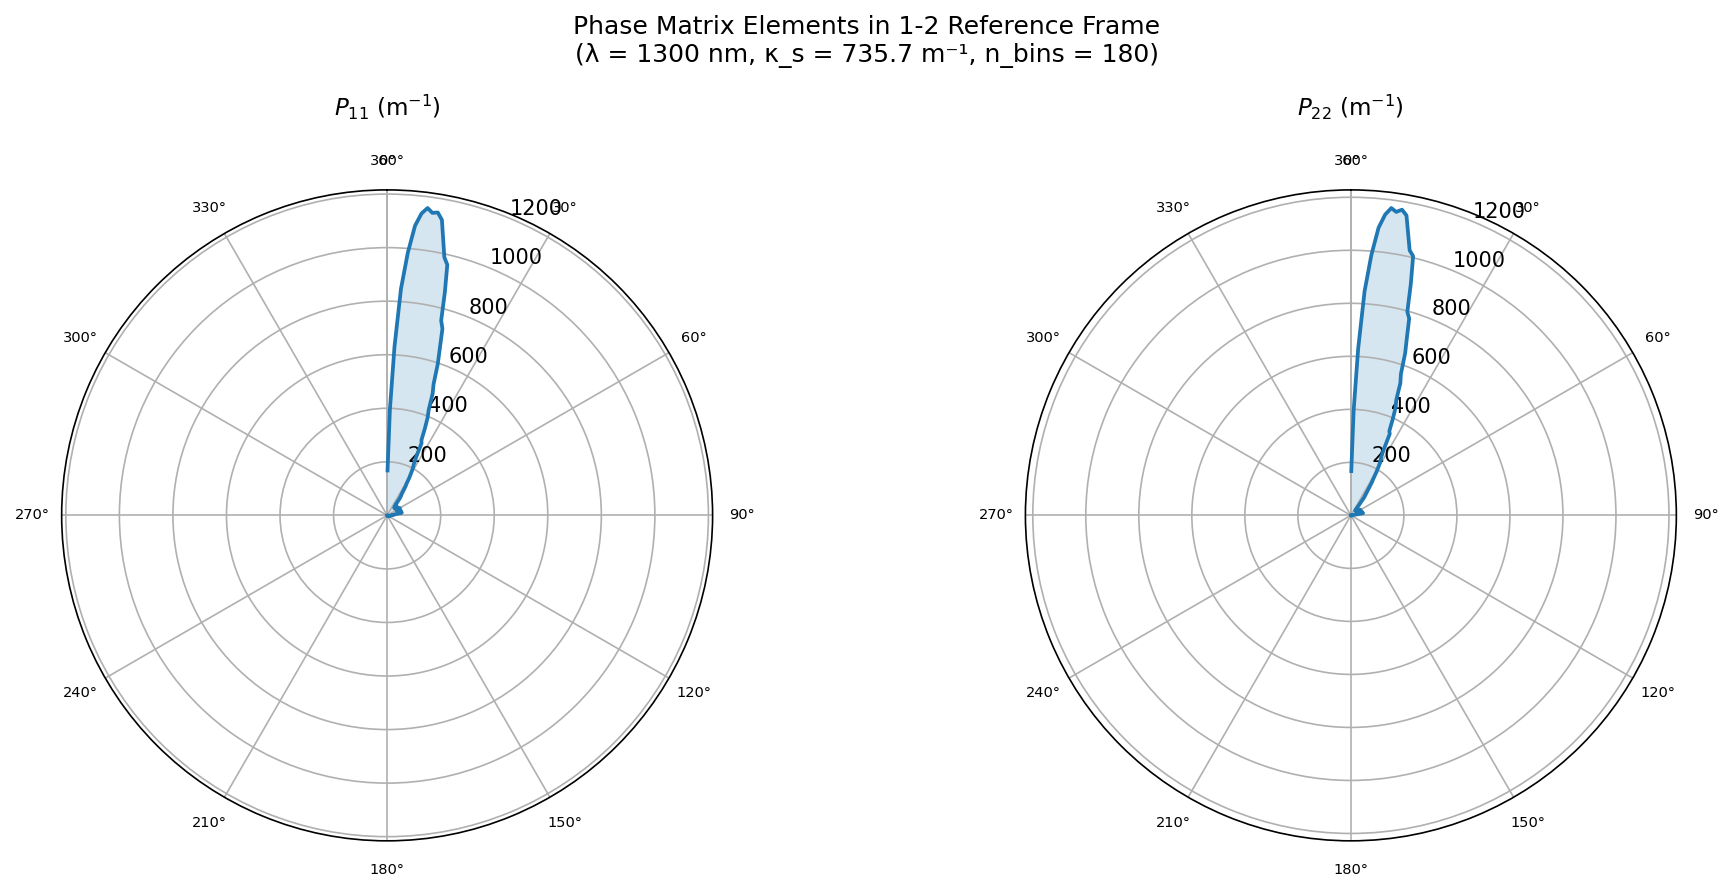
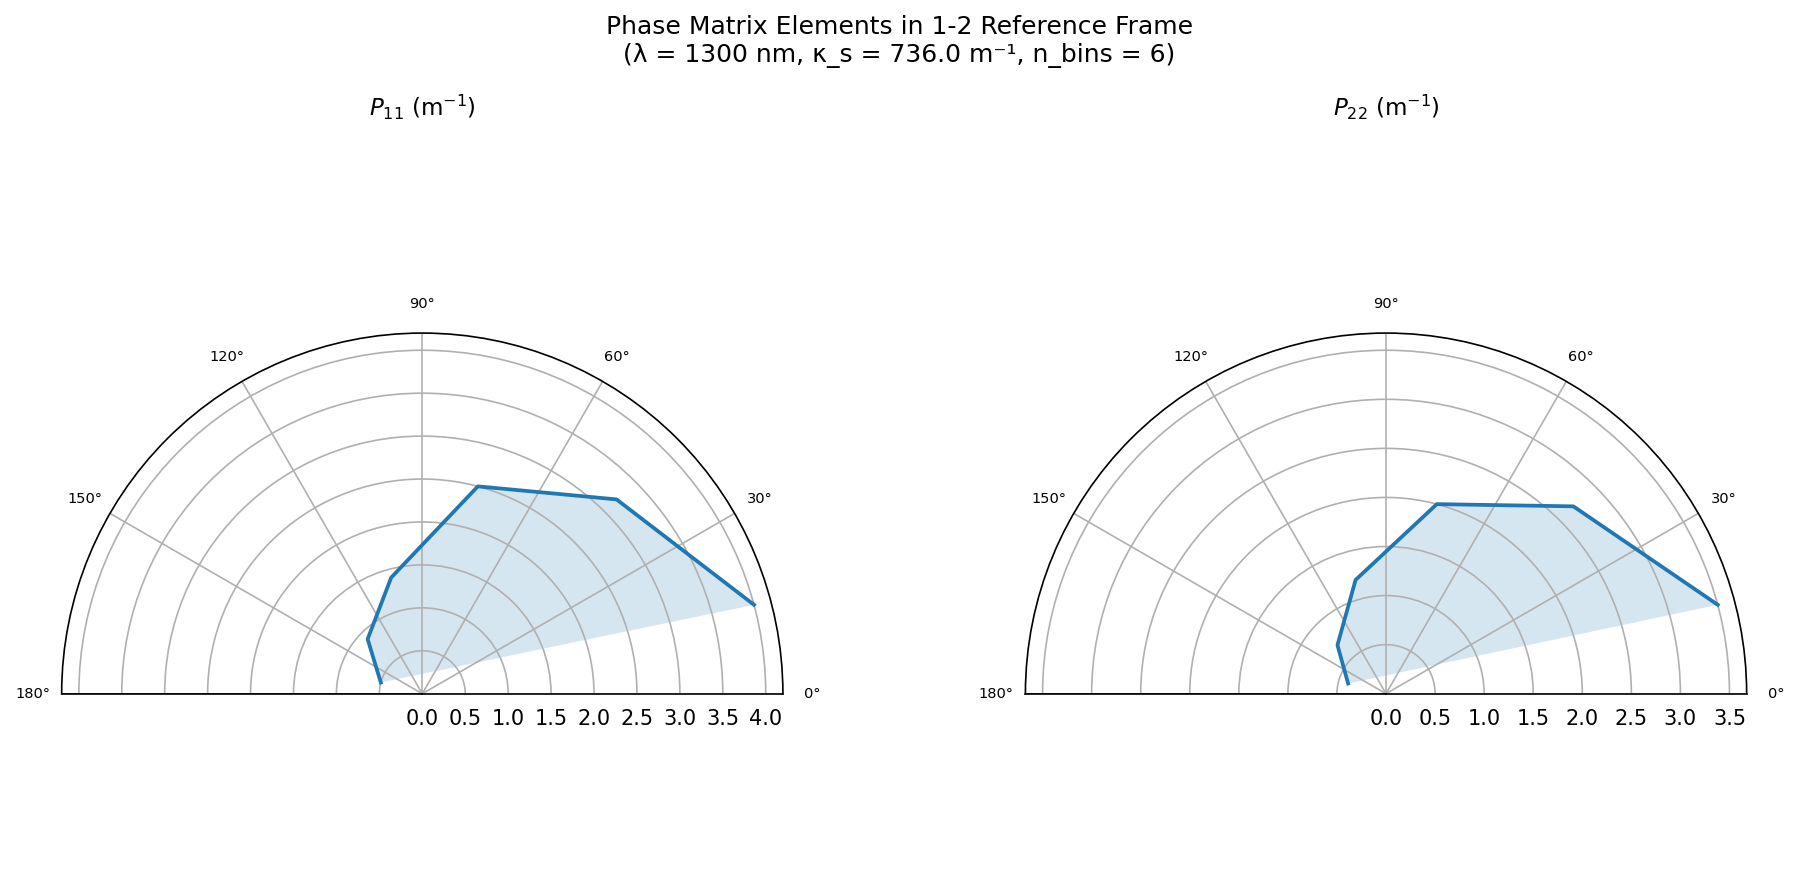
新增相矩阵坐标系转化功能

diff --git a/phase_matrix_calculator.py b/phase_matrix_calculator.py
@@ -411,6 +411,124 @@ class PhaseMatrixCalculator:
         self._n_angle_bins: int = None
 
     # ------------------------------------------------------------------
+    # 坐标变换工具（1-2 参考系 to 主坐标系）
+    # ------------------------------------------------------------------
+    @staticmethod
+    def stokes_rotation_matrix(sigma) -> np.ndarray:
+        """
+        返回 Stokes 列向量约定下的旋转矩阵 L(sigma)。
+
+        论文中的旋转发生在 Stokes 空间，因此矩阵元素使用 2*sigma
+        而不是 sigma。输入既可以是标量，也可以是可广播的数组。
+        """
+        sigma_arr = np.asarray(sigma, dtype=float)
+        cos_2sigma = np.cos(2.0 * sigma_arr)
+        sin_2sigma = np.sin(2.0 * sigma_arr)
+
+        rot = np.zeros(sigma_arr.shape + (4, 4), dtype=float)
+        rot[..., 0, 0] = 1.0
+        rot[..., 1, 1] = cos_2sigma
+        rot[..., 1, 2] = sin_2sigma
+        rot[..., 2, 1] = -sin_2sigma
+        rot[..., 2, 2] = cos_2sigma
+        rot[..., 3, 3] = 1.0
+        return rot
+
+    @staticmethod
+    def transform_phase_matrix_to_principal(
+        phase_matrix_12,
+        sigma1,
+        sigma2,
+    ) -> np.ndarray:
+        """
+        将 1-2 参考系中的相矩阵变换到主坐标系。
+
+        变换公式为：
+            P_principal = L(sigma2) @ P_12 @ L(-sigma1)
+
+        其中 sigma1 和 sigma2 由调用方提供，单位为弧度。
+        输入支持单个 4x4 相矩阵，也支持形状为 (..., 4, 4) 的批量矩阵。
+        """
+        phase_matrix = np.asarray(phase_matrix_12, dtype=float)
+        if phase_matrix.shape[-2:] != (4, 4):
+            raise ValueError(
+                "phase_matrix_12 的最后两维必须是 (4, 4)，"
+                f"当前收到的是 {phase_matrix.shape}。"
+            )
+
+        sigma1_arr = np.asarray(sigma1, dtype=float)
+        sigma2_arr = np.asarray(sigma2, dtype=float)
+
+        try:
+            leading_shape = np.broadcast_shapes(
+                phase_matrix.shape[:-2],
+                sigma1_arr.shape,
+                sigma2_arr.shape,
+            )
+        except ValueError as exc:
+            raise ValueError(
+                "phase_matrix_12、sigma1 和 sigma2 的前导维无法广播到同一形状。"
+            ) from exc
+
+        phase_broadcast = np.broadcast_to(phase_matrix, leading_shape + (4, 4))
+        left_rotation = np.broadcast_to(
+            PhaseMatrixCalculator.stokes_rotation_matrix(sigma2_arr),
+            leading_shape + (4, 4),
+        )
+        right_rotation = np.broadcast_to(
+            PhaseMatrixCalculator.stokes_rotation_matrix(-sigma1_arr),
+            leading_shape + (4, 4),
+        )
+
+        return left_rotation @ phase_broadcast @ right_rotation
+
+    @staticmethod
+    def transform_diagonal_phase_matrix_to_principal(
+        P11,
+        P22,
+        sigma1,
+        sigma2,
+    ) -> np.ndarray:
+        """
+        便捷接口：针对当前仅有 P11/P22 非零的 1-2 系相矩阵做主坐标系变换。
+
+        默认输入矩阵为
+            [[P11, 0,   0, 0],
+             [0,   P22, 0, 0],
+             [0,   0,   0, 0],
+             [0,   0,   0, 0]]
+        """
+        p11_arr = np.asarray(P11, dtype=float)
+        p22_arr = np.asarray(P22, dtype=float)
+        sigma1_arr = np.asarray(sigma1, dtype=float)
+        sigma2_arr = np.asarray(sigma2, dtype=float)
+
+        try:
+            leading_shape = np.broadcast_shapes(
+                p11_arr.shape,
+                p22_arr.shape,
+                sigma1_arr.shape,
+                sigma2_arr.shape,
+            )
+        except ValueError as exc:
+            raise ValueError(
+                "P11、P22、sigma1 和 sigma2 无法广播到同一形状。"
+            ) from exc
+
+        p11_broadcast = np.broadcast_to(p11_arr, leading_shape)
+        p22_broadcast = np.broadcast_to(p22_arr, leading_shape)
+
+        phase_matrix_12 = np.zeros(leading_shape + (4, 4), dtype=float)
+        phase_matrix_12[..., 0, 0] = p11_broadcast
+        phase_matrix_12[..., 1, 1] = p22_broadcast
+
+        return PhaseMatrixCalculator.transform_phase_matrix_to_principal(
+            phase_matrix_12=phase_matrix_12,
+            sigma1=sigma1_arr,
+            sigma2=sigma2_arr,
+        )
+
+    # ------------------------------------------------------------------
     # 主仿真接口
     # ------------------------------------------------------------------
 
@@ -535,13 +653,21 @@ class PhaseMatrixCalculator:
         ):
             ax.plot(self.angles, data, linewidth=1.8)
             ax.fill(self.angles, data, alpha=0.18)
-            ax.set_theta_zero_location("N")   # 0° 在顶部（前向散射）
-            ax.set_theta_direction(-1)        # 顺时针增大
+            ax.set_theta_zero_location("E")   # 0° 在右侧
+            ax.set_theta_direction(1)         # 角度逆时针增大
+            ax.set_thetamin(0.0)
+            ax.set_thetamax(180.0)
+            ax.set_rlabel_position(180.0)     # 径向刻度标签放到左侧
+
+            radial_max = max(float(np.max(data)) * 1.05, 1e-12)
+            ax.set_ylim(0.0, radial_max)
+            # 在半圆左边界添加显式径向轴线，便于读取纵向刻度
+            ax.plot([np.pi, np.pi], [0.0, radial_max], color="black", linewidth=0.9)
             ax.set_title(label, fontsize=11, pad=18)
-            # 添加 0°/180° 标注
+            # 仅保留上半圆的角度标注
             ax.set_thetagrids(
-                range(0, 361, 30),
-                labels=[f"{a}°" for a in range(0, 361, 30)],
+                range(0, 181, 15),
+                labels=[f"{a}°" for a in range(0, 181, 15)],
                 fontsize=7,
             )
 

diff --git a/Tests/test_phase_matrix_transform.py b/Tests/test_phase_matrix_transform.py
@@ -1,0 +1,93 @@
+import unittest
+
+import numpy as np
+
+from phase_matrix_calculator import PhaseMatrixCalculator
+
+
+class PhaseMatrixTransformTests(unittest.TestCase):
+    def test_zero_rotation_keeps_diagonal_sparse_matrix_unchanged(self) -> None:
+        transformed = PhaseMatrixCalculator.transform_diagonal_phase_matrix_to_principal(
+            P11=3.0,
+            P22=1.5,
+            sigma1=0.0,
+            sigma2=0.0,
+        )
+
+        expected = np.diag([3.0, 1.5, 0.0, 0.0])
+        np.testing.assert_allclose(transformed, expected)
+
+    def test_sparse_helper_matches_general_transform(self) -> None:
+        phase_matrix_12 = np.diag([2.0, 0.5, 0.0, 0.0])
+        sigma1 = 0.2
+        sigma2 = -0.4
+
+        general = PhaseMatrixCalculator.transform_phase_matrix_to_principal(
+            phase_matrix_12=phase_matrix_12,
+            sigma1=sigma1,
+            sigma2=sigma2,
+        )
+        sparse = PhaseMatrixCalculator.transform_diagonal_phase_matrix_to_principal(
+            P11=2.0,
+            P22=0.5,
+            sigma1=sigma1,
+            sigma2=sigma2,
+        )
+
+        np.testing.assert_allclose(general, sparse)
+
+    def test_nonzero_rotation_couples_qu_subblock_for_unequal_diagonal_terms(self) -> None:
+        transformed = PhaseMatrixCalculator.transform_diagonal_phase_matrix_to_principal(
+            P11=4.0,
+            P22=1.0,
+            sigma1=0.3,
+            sigma2=-0.2,
+        )
+
+        self.assertNotAlmostEqual(float(transformed[1, 2]), 0.0)
+        self.assertNotAlmostEqual(float(transformed[2, 1]), 0.0)
+        self.assertAlmostEqual(float(transformed[3, 3]), 0.0)
+
+    def test_equal_diagonal_case_preserves_trace_under_same_left_right_rotation(self) -> None:
+        transformed = PhaseMatrixCalculator.transform_diagonal_phase_matrix_to_principal(
+            P11=2.5,
+            P22=2.5,
+            sigma1=0.8,
+            sigma2=0.8,
+        )
+
+        qu_block = transformed[1:3, 1:3]
+        np.testing.assert_allclose(qu_block, qu_block.T, atol=1e-12)
+        self.assertAlmostEqual(float(np.trace(qu_block)), 2.5)
+
+    def test_batch_inputs_broadcast_to_common_shape(self) -> None:
+        transformed = PhaseMatrixCalculator.transform_diagonal_phase_matrix_to_principal(
+            P11=np.array([1.0, 2.0]),
+            P22=np.array([0.5, 1.5]),
+            sigma1=np.array([0.0, 0.2]),
+            sigma2=0.1,
+        )
+
+        self.assertEqual(transformed.shape, (2, 4, 4))
+
+    def test_inverse_transform_recovers_original_matrix(self) -> None:
+        original = np.diag([5.0, 2.0, 0.0, 0.0])
+        sigma1 = 0.15
+        sigma2 = -0.35
+
+        principal = PhaseMatrixCalculator.transform_phase_matrix_to_principal(
+            phase_matrix_12=original,
+            sigma1=sigma1,
+            sigma2=sigma2,
+        )
+        recovered = (
+            PhaseMatrixCalculator.stokes_rotation_matrix(-sigma2)
+            @ principal
+            @ PhaseMatrixCalculator.stokes_rotation_matrix(sigma1)
+        )
+
+        np.testing.assert_allclose(recovered, original, atol=1e-12)
+
+
+if __name__ == "__main__":
+    unittest.main()

diff --git a/main.py b/main.py
@@ -14,15 +14,15 @@ import os
 PARAMS = {
     'N': 1000,                    # 蒙特卡洛叠加次数
     'mean_waveNumber': 5349.7,    # 平均波数
-    'b': 1.345,                   # 粒径分布参数
-    'fv': 0.194,                  # 冰的体积分布
+    'b': 1.345,                   # 粒径分布参数 
+    'fv': 0.194,                  # 冰的体积分布 (snow density/ice density)
     'L': 0.01,                   # 介质物理尺寸 10mm
     'grid_resolution': 256,       # 介质网格分辨率
     'seed': 42,                    # 随机种子
     'RAW_DATA_DIR': "RawData",          # 随机场数据保存目录
     'FORCE_REGENERATE': False          # 设为 True 强制重新生成
 }
-
+# 来自figure1 的雪层参数 (mean_waveNumber=5349.7, b=1.345, fv=0.194)
 
 # ============================
 

diff --git a/Tests/__init__.py b/Tests/__init__.py
@@ -1,0 +1,1 @@
+# Test package marker for unittest discovery.
